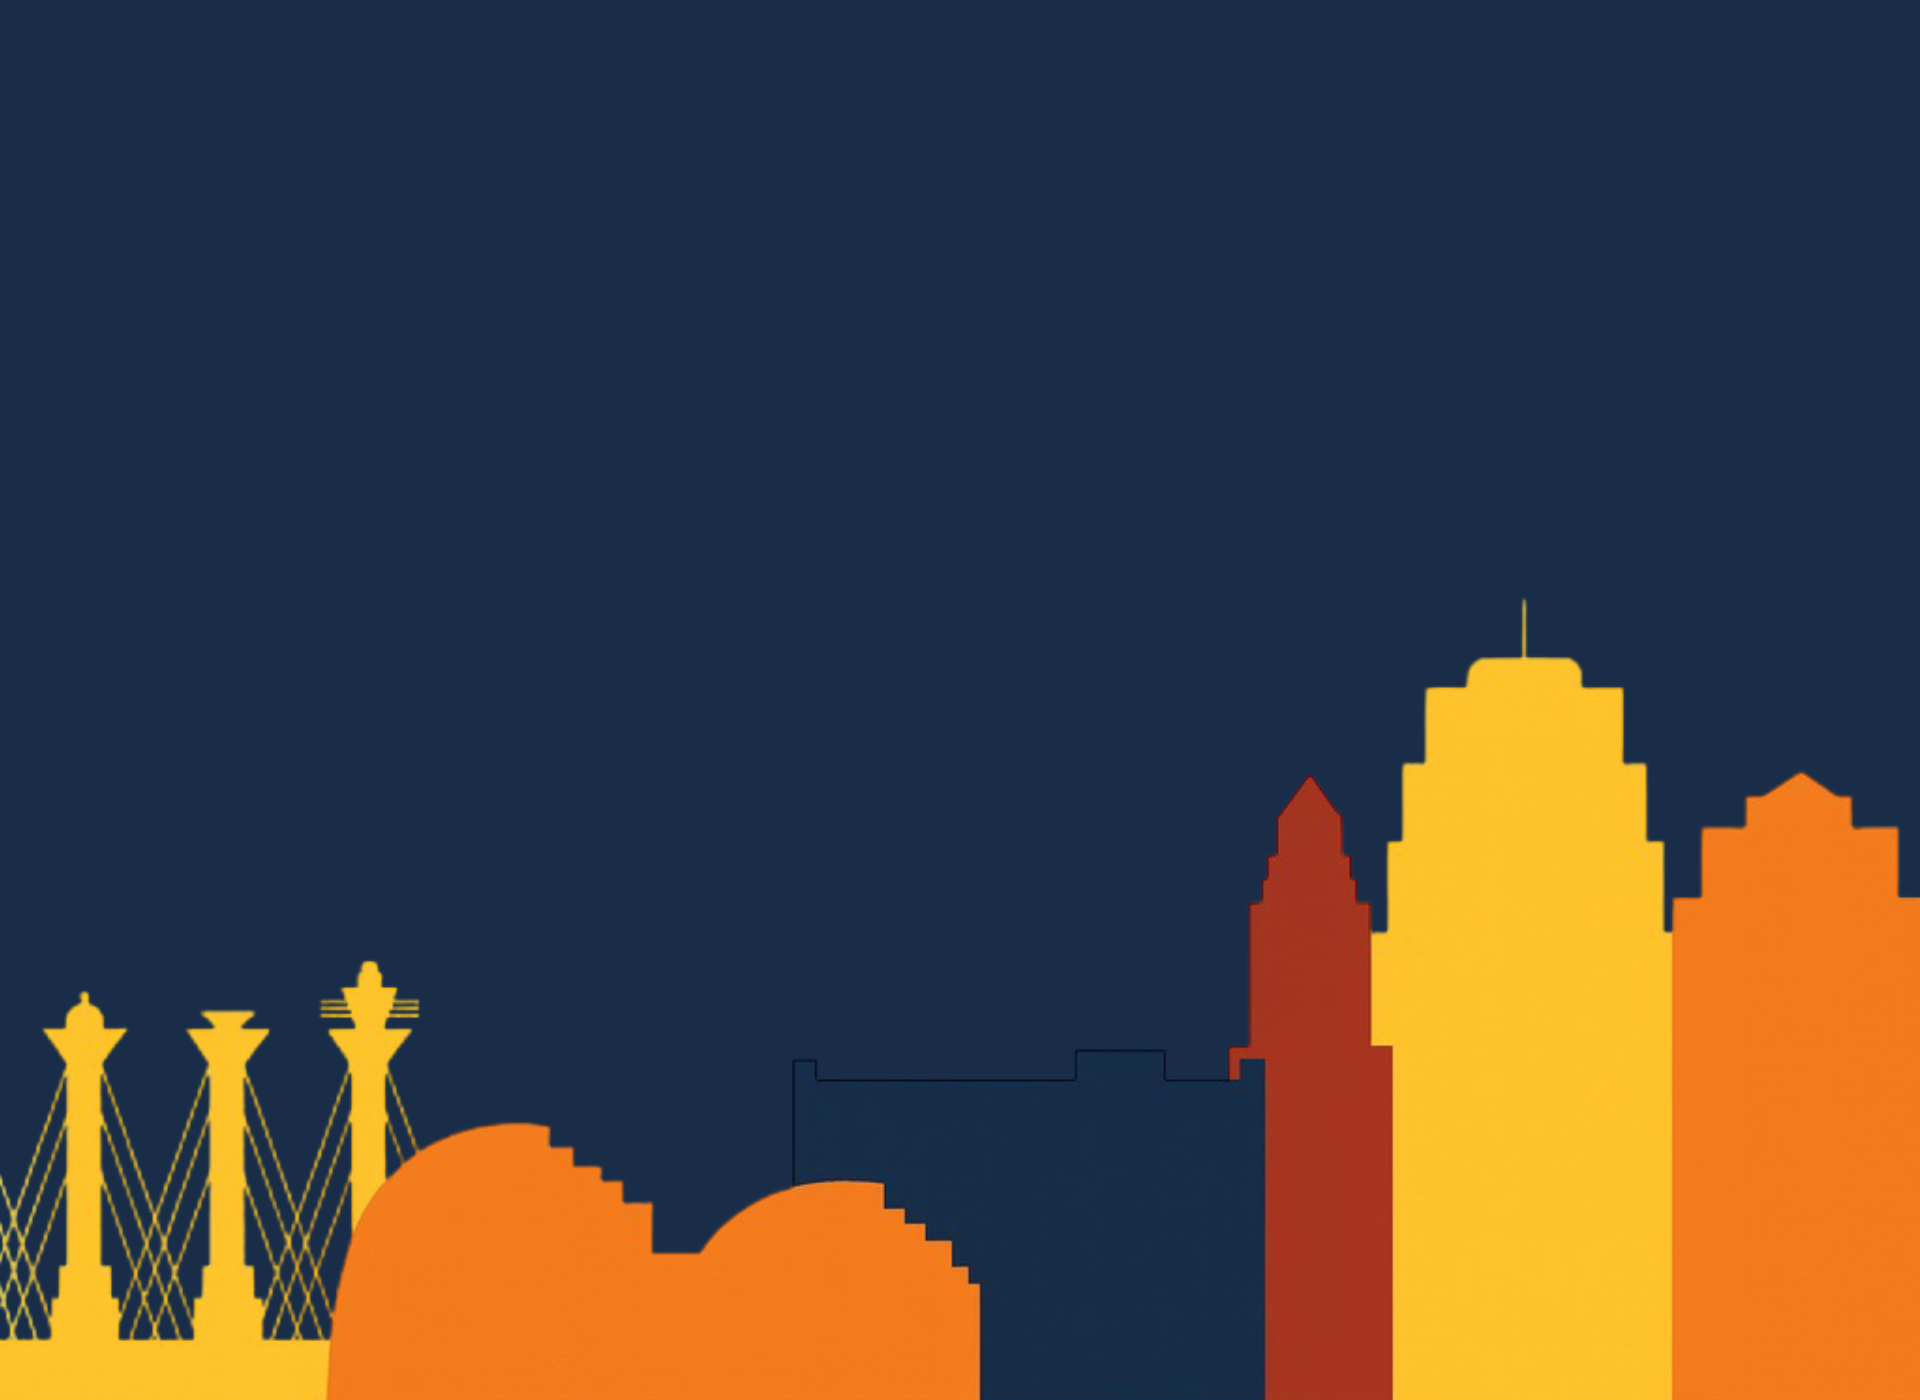
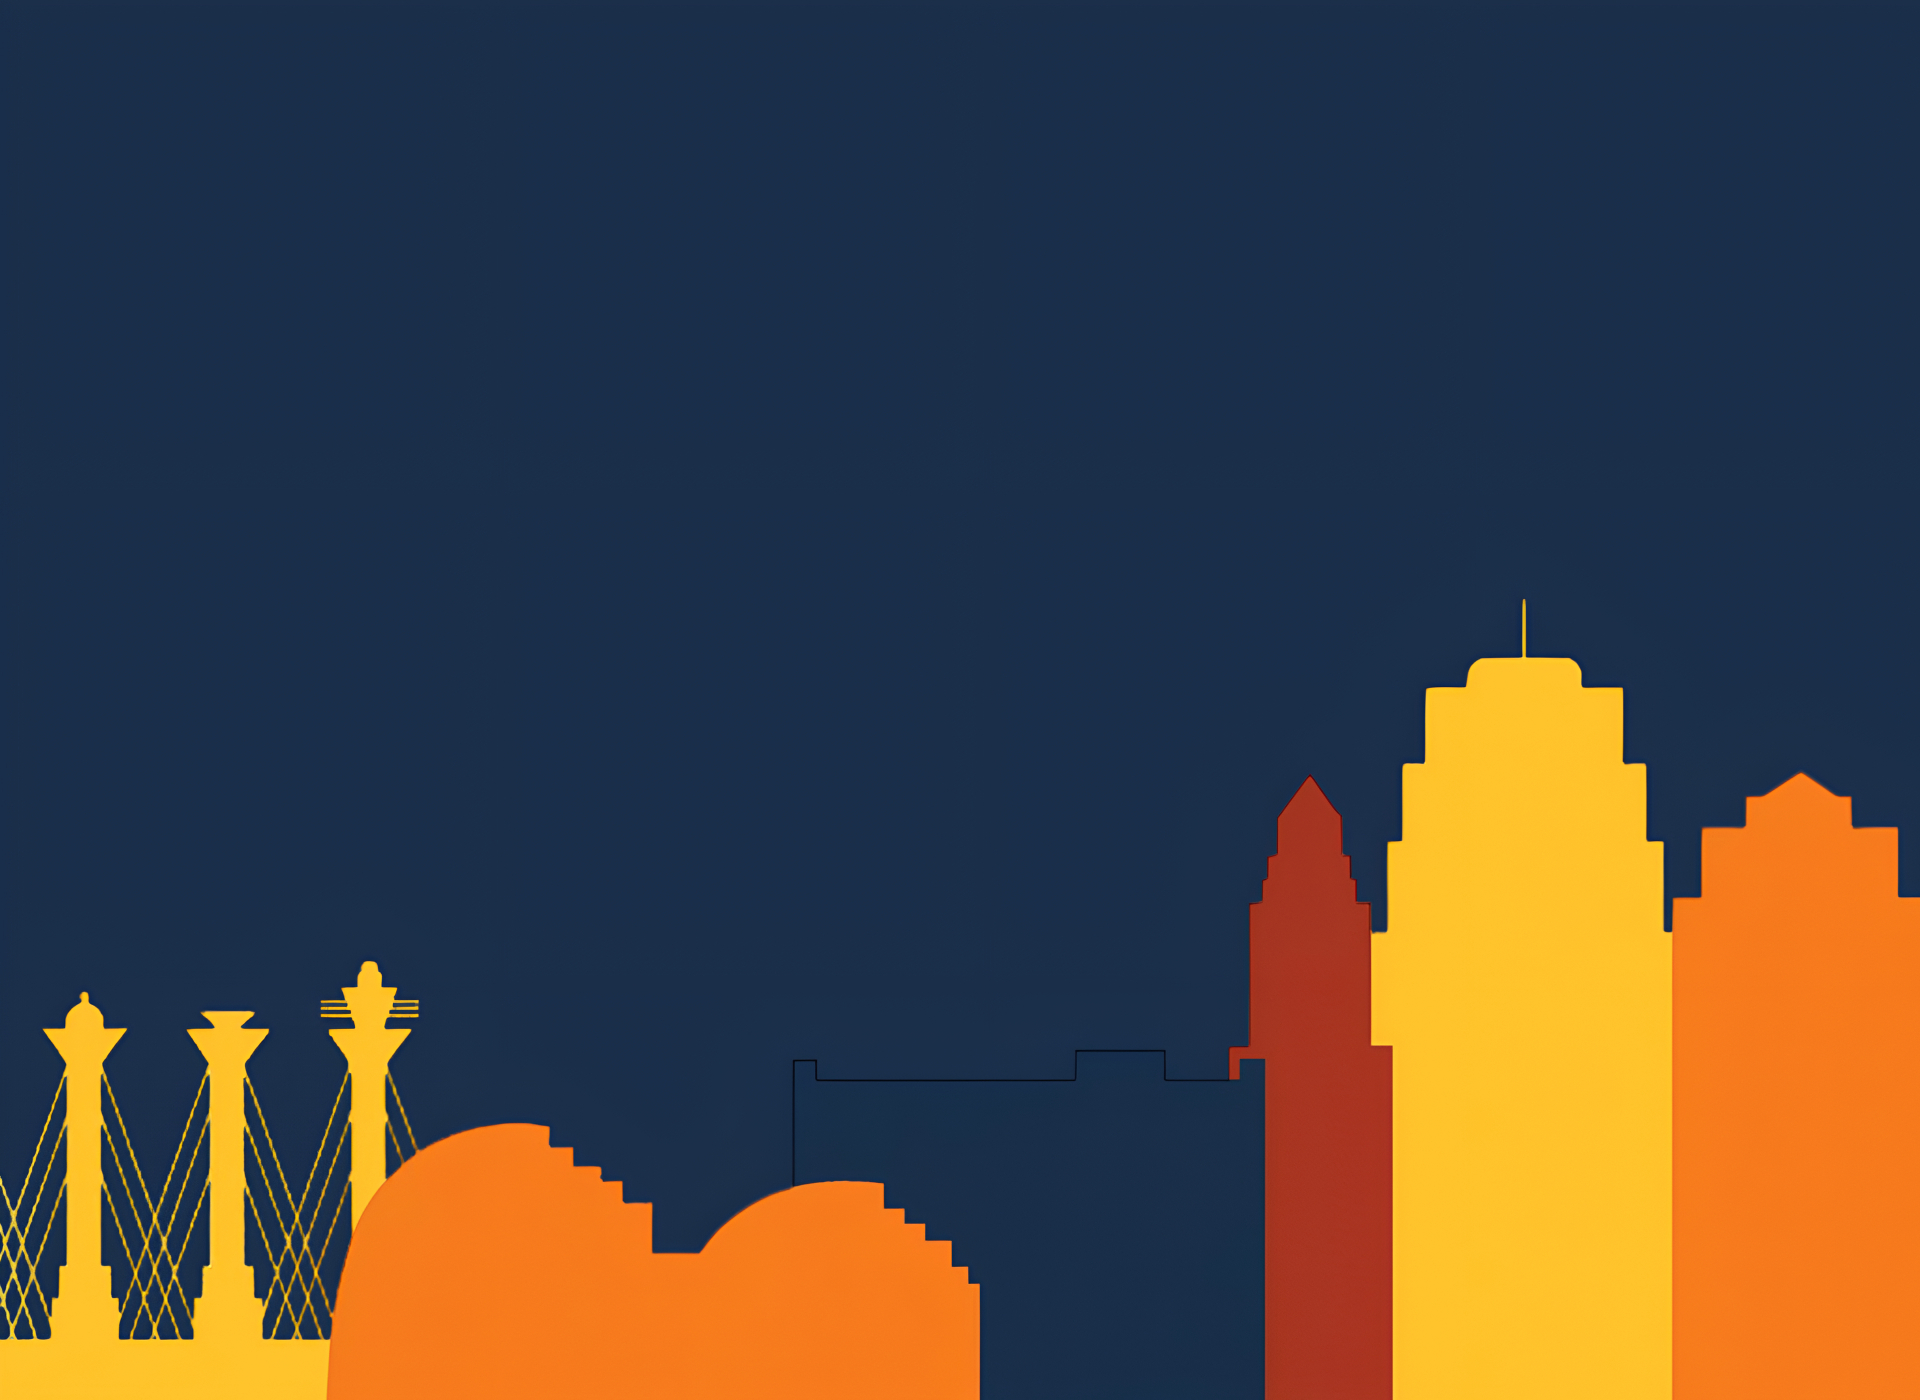
Changes

diff --git a/src/components/HeroSection.tsx b/src/components/HeroSection.tsx
@@ -1,6 +1,5 @@
 import { Link } from "react-router-dom";
 import { Button } from "@/components/ui/button";
-import KCSkyline from "./KCSkyline";
 import heroBackground from "@/assets/hero-background.png";
 
 const HeroSection = () => {
@@ -10,7 +9,7 @@ const HeroSection = () => {
       style={{
         backgroundImage: `url(${heroBackground})`,
         backgroundSize: 'cover',
-        backgroundPosition: 'center bottom',
+        backgroundPosition: 'bottom center',
         backgroundRepeat: 'no-repeat'
       }}
     >
@@ -43,13 +42,6 @@ const HeroSection = () => {
         </div>
       </div>
       
-      {/* Kansas City Skyline */}
-      <div className="absolute bottom-0 left-0 right-0 z-10">
-        <KCSkyline className="w-full h-auto" />
-      </div>
-      
-      {/* Navy bar at bottom */}
-      <div className="absolute bottom-0 left-0 right-0 h-16 bg-primary z-0" />
     </section>
   );
 };
